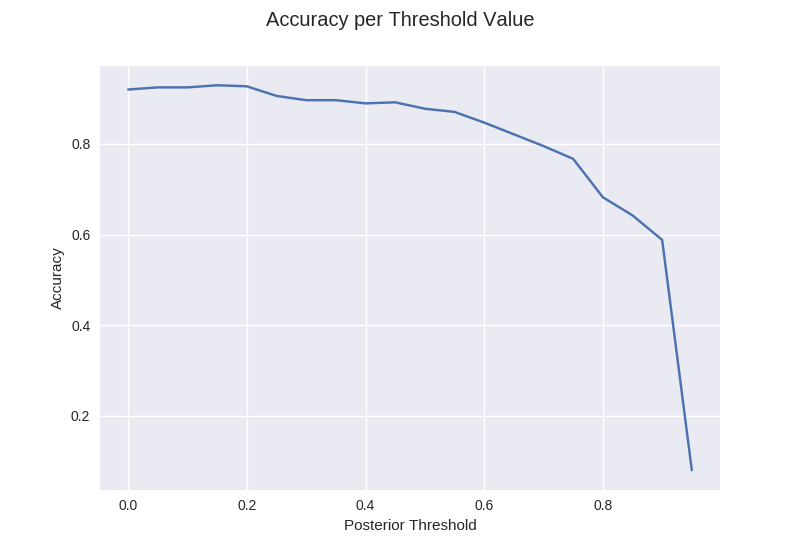
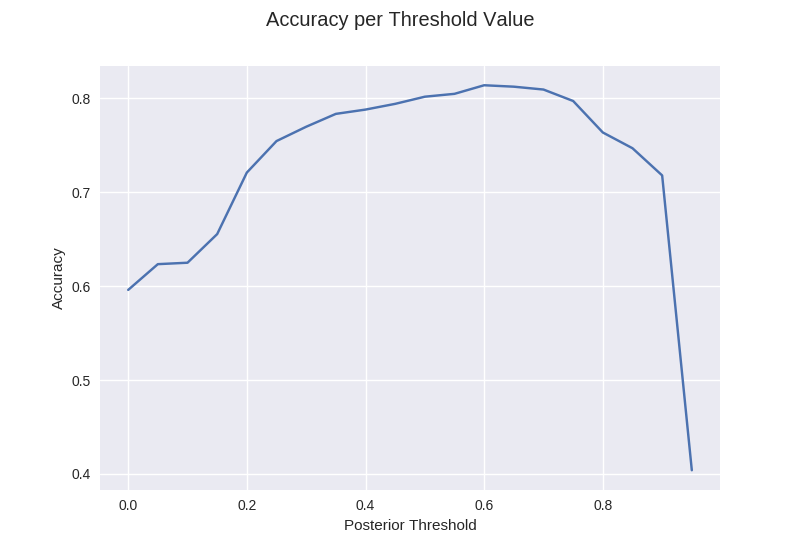
week 8 finalized

diff --git a/week8/gene_neighborhoods/neighbor_conserv.py b/week8/gene_neighborhoods/neighbor_conserv.py
@@ -1,0 +1,131 @@
+import pymysql
+import getpass
+
+
+def neighbors(gene_id, cur):
+    """
+        Get all the neighbors of the given gene_id within the same replicon
+        Returns: set of gene_ids within +/-5 genes from the given gene_id
+    """
+    gid_set = []
+    # get the replicon id
+    cur.execute(
+        "SELECT replicon_id FROM genes WHERE gene_id={}".format(gene_id)
+    )
+    rep_id = cur.fetchone()[0]
+    # get all neighbors
+    for i in range(-5, 6):
+        # skip self
+        if i == 0:
+            continue
+        # get neighbor if exists in same replicon
+        cur.execute(
+            "SELECT gene_id FROM genes WHERE gene_id={}".format(i + gene_id)
+            + " AND replicon_id={} ORDER BY start ASC;".format(rep_id)
+        )
+        result = cur.fetchone()
+        # if a neighbor has been found
+        if result:
+            gid_set.append(result[0])
+    return gid_set
+
+
+def get_orthologs(gene_id, cur):
+    """
+        Returns all orthologs, as a list, for the given gene_id
+    """
+    ortho_set = []
+
+    # get protein id
+    cur.execute(
+        "SELECT protein_id FROM genes WHERE gene_id={}".format(gene_id)
+    )
+    prot_id = cur.fetchone()[0]
+
+    # get ortholog
+    cur.execute(
+        "SELECT seqid_2 FROM homology_1 WHERE seqid_1='{}'".format(prot_id)
+    )
+    result = [r1[0] for r1 in cur.fetchall()]
+
+    # convert protein id to gene id
+    for r in result:
+        cur.execute(
+            "SELECT gene_id FROM genes WHERE protein_id='{}'".format(r)
+        )
+        ortho_set.append(cur.fetchone()[0])
+
+    # repeat
+    cur.execute(
+        "SELECT seqid_1 FROM homology_1 WHERE seqid_1='{}'".format(prot_id)
+    )
+    result = [r2[0] for r2 in cur.fetchall()]
+    for r in result:
+        cur.execute(
+            "SELECT gene_id FROM genes WHERE protein_id='{}'".format(r)
+        )
+        ortho_set.append(cur.fetchone()[0])
+
+    # return distinct set
+    return list(set(ortho_set))
+
+
+def conservation(cur):
+    """
+        Get conserved gene neighborhoods
+        Returns the intersection of a gene's neighborhood
+            and its orthologs' neighborhoods
+    """
+    # get all e_coli genes
+    cur.execute(
+        "SELECT DISTINCT gene_id FROM genes WHERE genome_id=1;"
+    )
+    e_coli_genes = [res[0] for res in cur.fetchall()]
+
+    # for each gid
+    for gene in e_coli_genes:
+        conserved_neighbors = []
+
+        # map neighbors to their orthologs
+        neighbor_map = {n: get_orthologs(n, cur) for n in neighbors(gene, cur)}
+
+        # orthologs of this gene
+        orthologs = get_orthologs(gene, cur)
+
+        for ortho in orthologs:
+            for o_n in neighbors(ortho, cur):
+                for g_n in neighbor_map:
+
+                    # if the ortholog neighbors are in the set of neighbors
+                    if o_n in neighbor_map[g_n]:
+                        conserved_neighbors.append((g_n, o_n - ortho))
+                        break
+
+        # write to flat file
+        with open('output.txt', 'a') as output:
+            for c_n in conserved_neighbors:
+                output.write('\t'.join(
+                    [str(gene), str(c_n[0]), str(abs(gene - c_n[0])), str(abs(c_n[1]))]
+                ))
+                output.write('\n')
+    return 0
+
+
+def main():
+    """
+        Main function
+    """
+    connection = pymysql.connect(
+        host='bm185s-mysql.ucsd.edu',
+        user='kkchau',
+        db='kkchau_db',
+        passwd=getpass.getpass("Input password: ")
+    )
+
+    cursor = connection.cursor()
+
+    conservation(cursor)
+
+
+if __name__ == '__main__':
+    main()

diff --git a/week8/ohtp.py b/week8/ohtp.py
@@ -1,0 +1,72 @@
+"""
+    Calculate orthologous sequences using Ortholog-Higher-Than-Paralog method
+"""
+
+
+import pymysql
+import getpass
+
+
+def top_score_self(cur, qseqid, gen):
+    """
+        Find the top-scoring hit for the given query within its own genome
+        Takes as parameters cursor, query_id, genome number
+    """
+    cur.execute(
+        "SELECT sseqid,bitscore FROM blast_gid{}_self".format(gen)
+        + " WHERE qseqid='{}' ORDER BY bitscore DESC LIMIT 1;".format(qseqid)
+    )
+    return cur.fetchone()
+
+
+def ohtp(cur, gen):
+    """
+        Find all sseqids from comparison genome where their bitscore is higher
+        than the paralog bitscore
+    """
+    # set of distinct qseqid
+    cur.execute(
+        "SELECT DISTINCT qseqid FROM blast_gid{}_self;".format(gen)
+    )
+    seq_top_score = {
+        res[0]: top_score_self(cur, res[0], gen) for res in cur.fetchall()
+    }
+
+    # get ortholog with higher bitscore for each qseqid
+    for qseqid in seq_top_score:
+        print(seq_top_score[qseqid][1])
+        cur.execute(
+            "SELECT sseqid FROM blast_gid{}".format(gen)
+            + " WHERE bitscore>{}".format(seq_top_score[qseqid][1])
+            + " AND qseqid='{}';".format(qseqid)
+        )
+        result = [r[0].strip().split('|')[1] for r in cur.fetchall()]
+        print(result)
+        for hit in result:
+            cur.execute(
+                "INSERT INTO homology_1 VALUES ('{}','{}','{}','{}');".format(
+                    qseqid, hit, 'Orthology', 'OHTP')
+            )
+    return cur
+
+
+def main():
+    """
+        Main function
+    """
+    connection = pymysql.connect(
+        host='bm185s-mysql.ucsd.edu',
+        user='kkchau',
+        passwd=getpass.getpass("Input password: "),
+        db='kkchau_db'
+    )
+    cursor = connection.cursor()
+
+    cursor = ohtp(cursor, 1)
+    connection.commit()
+    cursor = ohtp(cursor, 2)
+    connection.commit()
+
+
+if __name__ == '__main__':
+    main()

diff --git a/week8/benchmark.py b/week8/benchmark.py
@@ -24,6 +24,8 @@ def bench(connection, threshold):
     """
 
     cur = connection.cursor()
+    cur.execute("TRUNCATE tus;")
+    connection.commit()
 
     # get all genes in increasing order of position, along with strand
     cur.execute(
@@ -71,12 +73,12 @@ def bench(connection, threshold):
         # TP: True Positive; TN: True Negative;
         # FP: False Positive; FN: False Negative;
         # PD: Prediction
-        if this_operon == next_operon and this_operon != '' and next_operon != '':
-            if prob > threshold:
+        if this_operon == next_operon and (this_operon != '' or next_operon != ''):
+            if prob >= threshold:
                 status = '\"TP\"'
             else:
                 status = '\"FN\"'
-        elif this_operon != next_operon and this_operon != '' and next_operon != '':
+        elif this_operon != next_operon and (this_operon != '' or next_operon != ''):
             if prob < threshold:
                 status = '\"TN\"'
             else:
@@ -175,7 +177,9 @@ def acc(bench_vals):
         Return an array of accuracy values for each set of benchmark values
     """
     return [
-        (val['tp'] + val['tn']) / sum(val.values()) for val in bench_vals
+        (val['tp'] + val['tn']) / (
+            val['tp'] + val['tn'] + val['fp'] + val['fn']
+        ) for val in bench_vals
     ]
 
 
